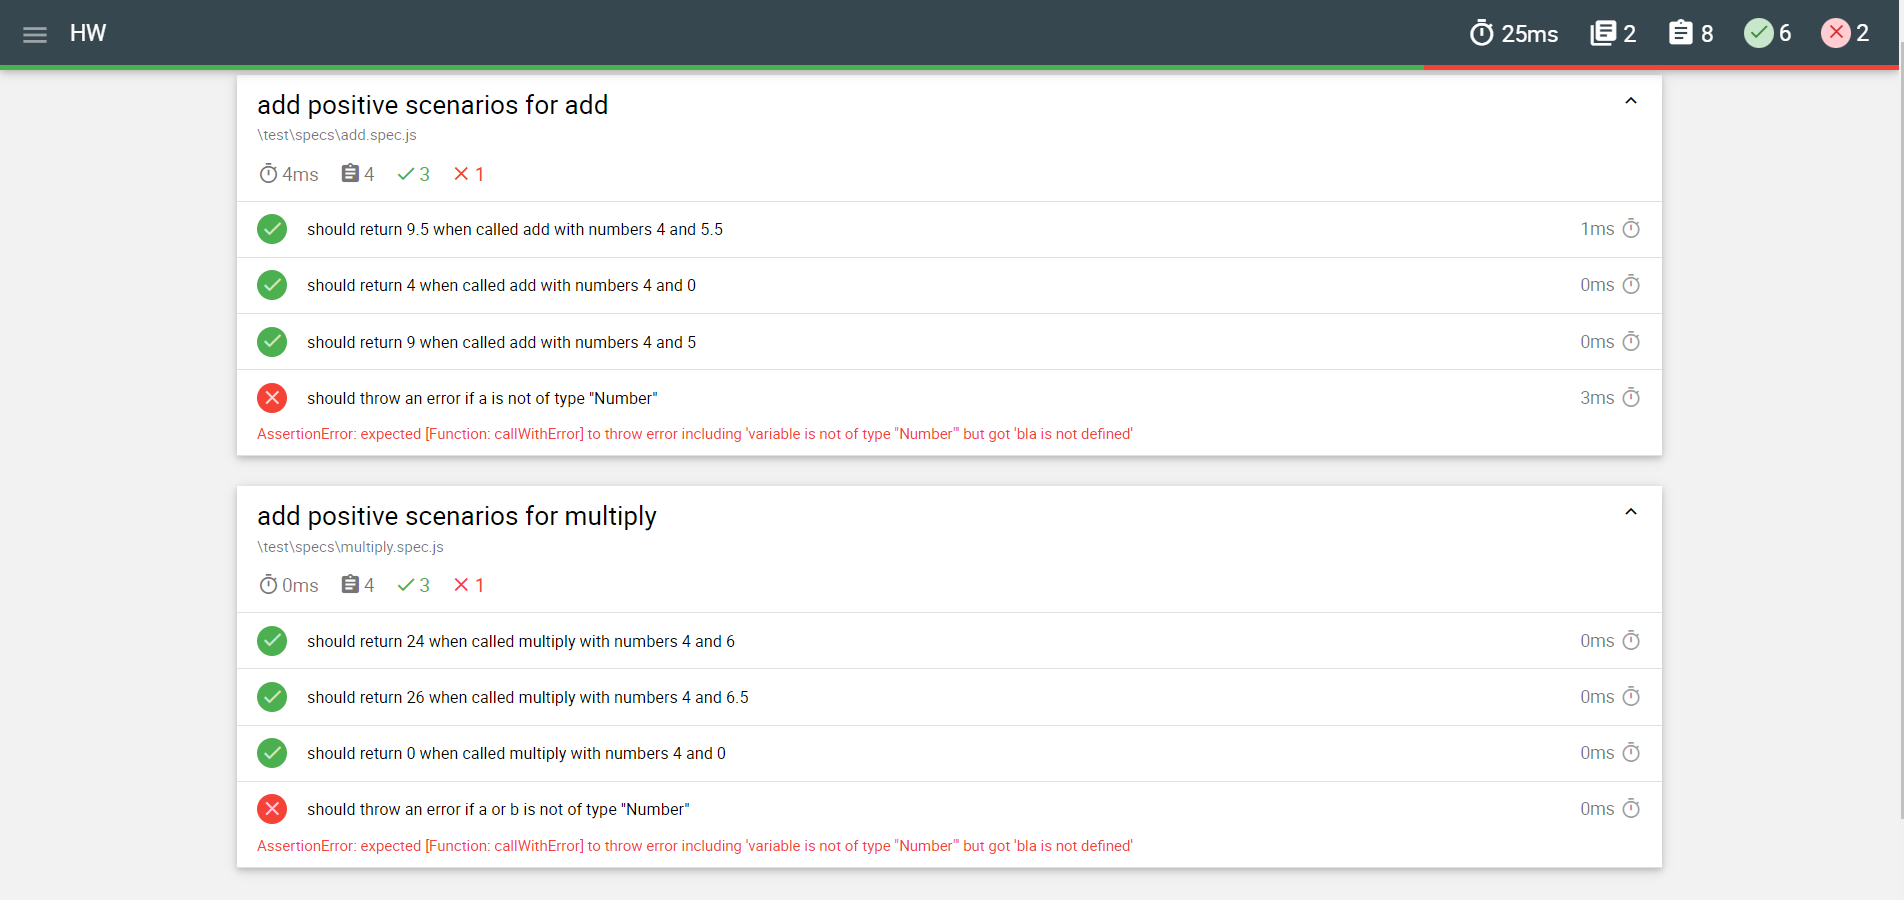
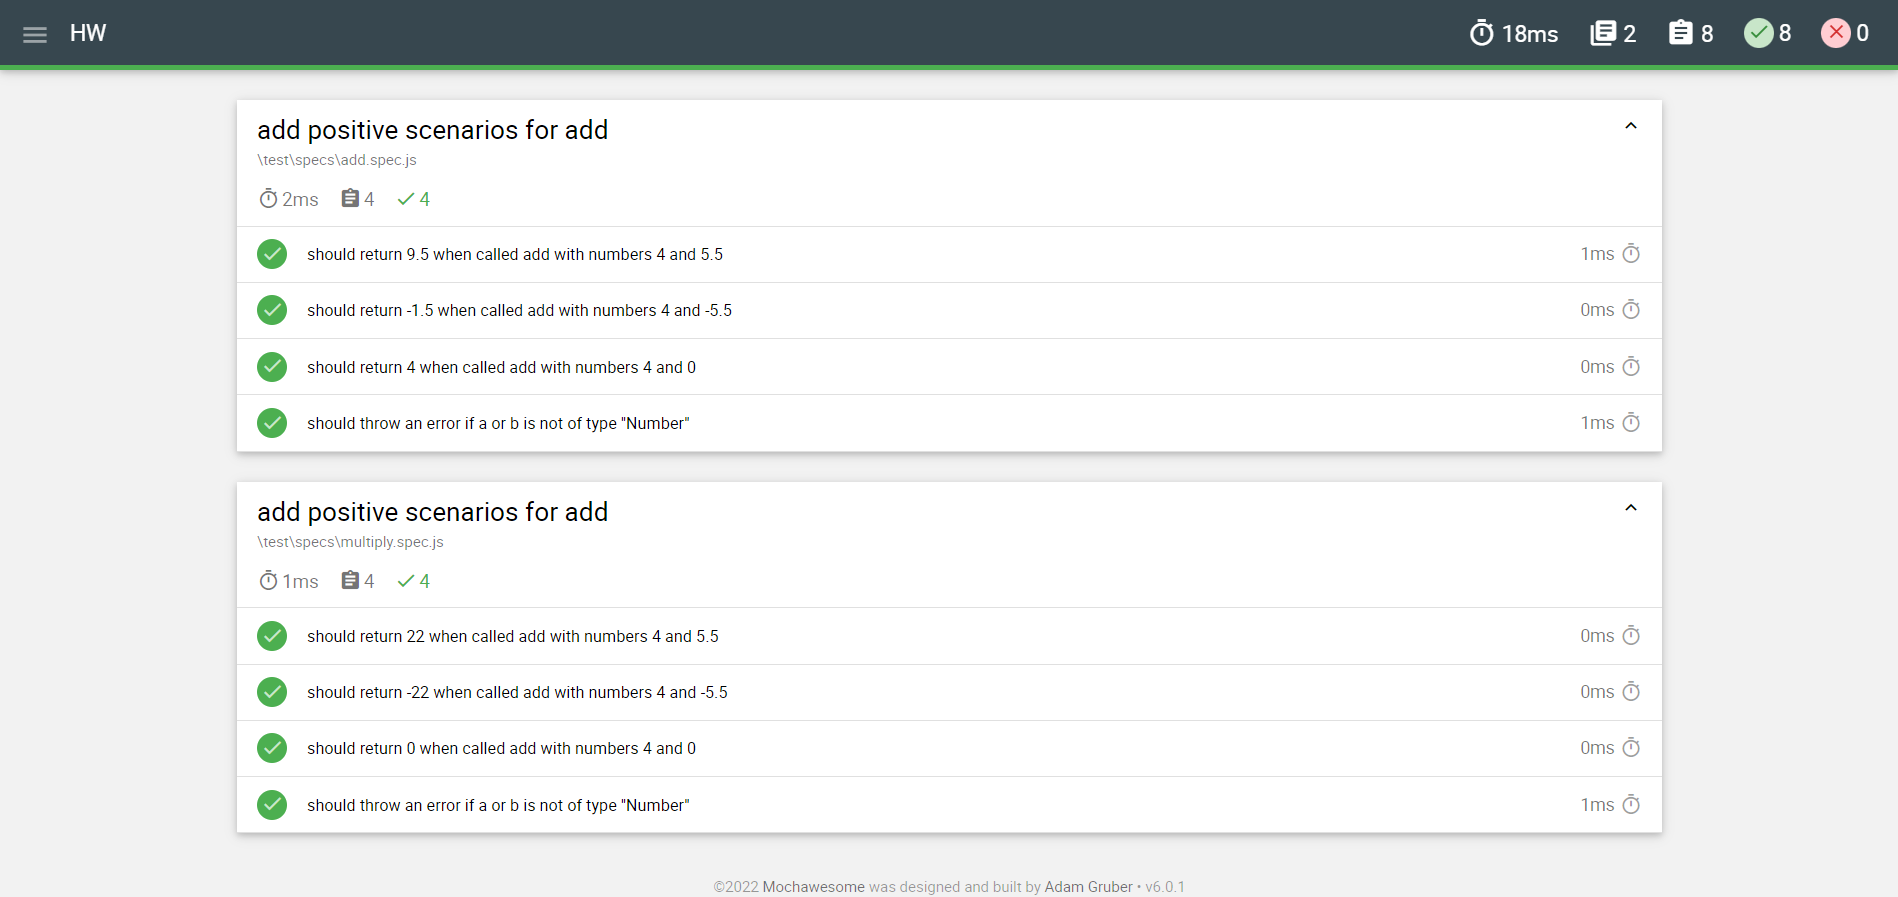
Add corrected files from unit 8

diff --git a/test/specs/add.spec.js b/test/specs/add.spec.js
@@ -1,4 +1,5 @@
 /* eslint-disable linebreak-style */
+/* eslint-disable max-len */
 /* eslint-disable comma-dangle */
 /* eslint-disable indent */
 /* eslint-disable object-curly-spacing */
@@ -7,24 +8,23 @@ const Calculator = require('../../app/calculator');
 const { expect } = require('chai');
 
 describe(`add positive scenarios for add`, function () {
-  let sumOfNumbers;
-  beforeEach(function () {
-    sumOfNumbers = new Calculator();
+  const calculator = new Calculator();
+
+  const testData = [
+    { a: 4, b: 5.5, result: 9.5 },
+    { a: 4, b: -5.5, result: -1.5 },
+    { a: 4, b: 0, result: 4 },
+  ];
+
+  testData.forEach(({ a, b, result }) => {
+    it(`should return ${result} when called add with numbers ${a} and ${b}`, function () {
+      expect(calculator.add(a, b)).to.be.equal(result);
+    });
   });
-  afterEach(function () {
-    sumOfNumbers = null;
-  });
-  it(`should return 9.5 when called add with numbers 4 and 5.5`, function () {
-    expect(sumOfNumbers.add(4, 5.5)).to.be.equal(9.5);
-  });
-  it(`should return 4 when called add with numbers 4 and 0`, function () {
-    expect(sumOfNumbers.add(4, 0)).to.be.equal(4);
-  });
-  it(`should return 9 when called add with numbers 4 and 5`, function () {
-    expect(sumOfNumbers.add(4, 5)).to.be.equal(9);
-  });
+
   it(`should throw an error if a or b is not of type "Number"`, function () {
-    const callWithError = () => Calculator.add(bla, 5);
+    const str = 'some value';
+    const callWithError = () => calculator.add(str, 5);
     expect(callWithError).to.throw(`variable is not of type "Number"`);
   });
 });

diff --git a/test/specs/multiply.spec.js b/test/specs/multiply.spec.js
@@ -5,25 +5,24 @@
 const Calculator = require('../../app/calculator');
 const { expect } = require('chai');
 
-describe(`add positive scenarios for multiply`, function () {
-  let multiplicationOfNumbers;
-  beforeEach(function () {
-    multiplicationOfNumbers = new Calculator();
+describe(`add positive scenarios for add`, function () {
+  const calculator = new Calculator();
+
+  const testData = [
+    { a: 4, b: 5.5, result: 22 },
+    { a: 4, b: -5.5, result: -22 },
+    { a: 4, b: 0, result: 0 },
+  ];
+
+  testData.forEach(({ a, b, result }) => {
+    it(`should return ${result} when called add with numbers ${a} and ${b}`, function () {
+      expect(calculator.multiply(a, b)).to.be.equal(result);
+    });
   });
-  afterEach(function () {
-    multiplicationOfNumbers = null;
-  });
-  it(`should return 24 when called multiply with numbers 4 and 6`, function () {
-    expect(multiplicationOfNumbers.multiply(4, 6)).to.be.equal(24);
-  });
-  it(`should return 26 when called multiply with numbers 4 and 6.5`, function () {
-    expect(multiplicationOfNumbers.multiply(4, 6.5)).to.be.equal(26);
-  });
-  it(`should return 0 when called multiply with numbers 4 and 0`, function () {
-    expect(multiplicationOfNumbers.multiply(4, 0)).to.be.equal(0);
-  });
+
   it(`should throw an error if a or b is not of type "Number"`, function () {
-    const callWithError = () => Calculator.add(bla, 5);
+    const str = 'some value';
+    const callWithError = () => calculator.multiply(str, 5);
     expect(callWithError).to.throw(`variable is not of type "Number"`);
   });
 });

diff --git a/app/calculator.js b/app/calculator.js
@@ -1,51 +1,19 @@
 /* eslint-disable linebreak-style */
-/* eslint-disable comma-dangle */
-/* eslint-disable indent */
-/**
- *
- * A simple class containing method of calculator
- * @class Calculator
- */
+/* eslint-disable require-jsdoc */
 class Calculator {
-  /**
-   * Creates an instance of Calculator.
-   * @memberof Calculator
-   */
-  constructor() {}
-
-  /**
-   *
-   *
-   * @param {A} a a the first number
-   * @param {B} b b the second number
-   * @return {*} sum of a and b
-   * @memberof Calculator
-   */
   add(a, b) {
-    const typeOfA = typeof a;
-    const typeOFB = typeof b;
-    if (typeOfA !== 'number' || typeOFB !== 'number') {
-      throw new Error(`variable is not of type "Number"`);
-    } else {
-      return a + b;
-    }
+    this._validateVariable(a, b);
+    return a + b;
   }
 
-  /**
-   *
-   *
-   * @param {A} a a the first number
-   * @param {B} b b the second number
-   * @return {*} multiplication of a and b
-   * @memberof Calculator
-   */
   multiply(a, b) {
-    const typeOfA = typeof a;
-    const typeOFB = typeof b;
-    if (typeOfA !== 'number' || typeOFB !== 'number') {
-      throw new Error(`variable is not of type "Number"`);
-    } else {
-      return a * b;
+    this._validateVariable(a, b);
+    return a * b;
+  }
+
+  _validateVariable(a, b) {
+    if (typeof a !== 'number' || typeof b !== 'number') {
+      throw new Error('variable is not of type "Number"');
     }
   }
 }
